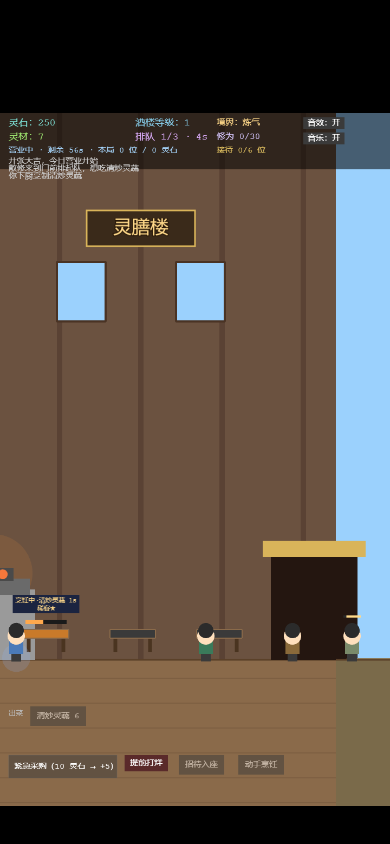
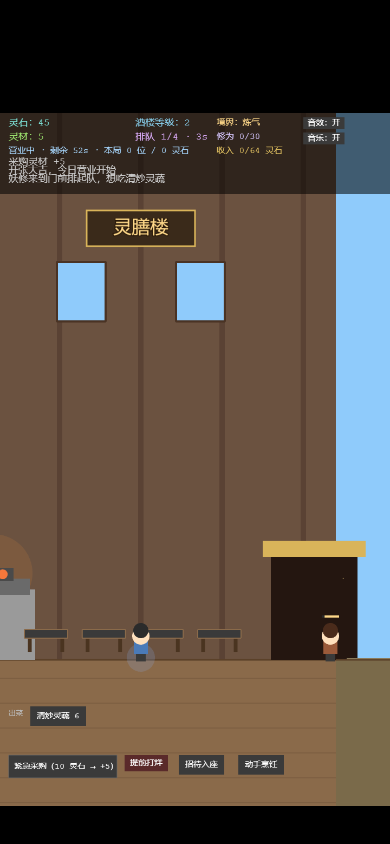
第三轮盲测修复：0 库存禁开张、目标快照、队列取景与 HUD 可读性
- 菜单库存为 0 时红字提示并禁用开张；startSession 兜底，避免进场后卡死
- 每日目标写入存档快照，刷新/升级不再显示两个不同目标；旧档无字段时回退
- 队列基准位 390→350、间距 70→52，两人候客都在 720 画布内
- 目标文本 300px 换行；主 HUD 18px、见闻录 18px、状态栏 150，日志截断到 34 字
- 伙计面板未雇佣行显示日薪，并注明灶上不读口味
- 打烊时入座中食客计入流失（上一批遗漏）
- 复测：0 库存直接开张被挡回、备货后正常；同一存档目标 52 刷新前后一致

测试：46 条单测、tsc、生产构建通过；390×844 headless 复测菜单/队列/HUD 与目标持久化。

diff --git a/src/main.ts b/src/main.ts
@@ -85,7 +85,7 @@ const COLOR_STAFF = 0x4da6ff;
 const SCREEN_W = 720;
 const SCREEN_H = 1280;
 /** 界面分区（见 GLOSSARY）：状态栏 / 主屏 / 副屏。 */
-const STATUS_BAR_H = 104;
+const STATUS_BAR_H = 150;
 const SECONDARY_TOP = 1077;
 const CARD_W = 600;
 
@@ -99,8 +99,8 @@ const FLOOR_Y = 1010;
 const ACTOR_Y = FLOOR_Y - 34;
 const TABLE_X_MIN = -175;
 const TABLE_X_MAX = 145;
-const QUEUE_X = 390;
-const QUEUE_GAP = 70;
+const QUEUE_X = 350;
+const QUEUE_GAP = 52;
 const PLAYER_HOME = { x: 0, y: ACTOR_Y };
 const HAWKER_HOME = { x: 280, y: ACTOR_Y };
 const SERVER_HOME = { x: 120, y: ACTOR_Y };
@@ -183,6 +183,8 @@ interface SaveData {
   selectedDishIds: string[];
   playerGender: "male" | "female";
   meta: MetaStats;
+  /** 当日目标快照：读档后不能因等级变化换目标，否则同一目标会显示两个数。 */
+  dailyGoal?: DailyGoal | null;
 }
 
 /** 按钮内叠两条进度条：上=伙计（蓝），下=玩家（橙）。 */
@@ -567,6 +569,7 @@ class TavernScene extends Phaser.Scene {
       selectedDishIds: [...this.selectedDishIds],
       playerGender: this.playerGender,
       meta: this.meta,
+      dailyGoal: this.dailyGoal,
     };
   }
 
@@ -662,6 +665,20 @@ class TavernScene extends Phaser.Scene {
           (id): id is string => typeof id === "string",
         ),
       );
+      const goal = data.dailyGoal;
+      this.dailyGoal =
+        goal &&
+        (goal.kind === "serve" || goal.kind === "revenue" || goal.kind === "wish") &&
+        typeof goal.label === "string" &&
+        goal.label.length > 0
+          ? {
+              kind: goal.kind,
+              label: goal.label,
+              target: Math.max(1, Math.floor(num(goal.target, 1))),
+              rewardCoins: count(goal.rewardCoins),
+              rewardCultivation: count(goal.rewardCultivation),
+            }
+          : null;
       this.displayedCoins = this.coins;
       const meta = data.meta;
       this.meta = meta
@@ -966,9 +983,10 @@ class TavernScene extends Phaser.Scene {
     this.queueText = this.addUiText(250, 36, "", "18px", "#e0b0ff");
     this.realmText = this.addUiText(400, 10, "", "16px", "#ffd98a");
     this.cultivationText = this.addUiText(400, 36, "", "16px", "#d8c8ff");
-    this.goalText = this.addUiText(400, 62, "", "15px", "#9fdf6a");
-    this.sessionText = this.addUiText(16, 62, "", "15px", "#a8d8ff");
-    this.chronicleText = this.addUiText(16, 82, "", "15px", "#cccccc");
+    this.goalText = this.addUiText(400, 62, "", "16px", "#9fdf6a");
+    this.goalText.setWordWrapWidth(300);
+    this.sessionText = this.addUiText(16, 62, "", "16px", "#a8d8ff");
+    this.chronicleText = this.addUiText(16, 82, "", "18px", "#cccccc");
 
     const audio = loadAudioSettings();
     this.sfxMuted = audio.sfxMuted;
@@ -1468,6 +1486,16 @@ class TavernScene extends Phaser.Scene {
       );
     });
 
+    if (this.inventory <= 0) {
+      layer.add(
+        this.add.text(40, 1000, "库存为 0：先点下面「备货」再开张，否则客人来了没菜可做", {
+          fontSize: "16px",
+          color: "#ff9a8a",
+          wordWrap: { width: 640 },
+        }),
+      );
+    }
+
     const buyPrice = getPurchasePrice(this.staffLevel.buyer, false);
     layer.add(
       this.add
@@ -1486,8 +1514,9 @@ class TavernScene extends Phaser.Scene {
     );
 
     const count = this.getMenuDishes().length;
-    const canStart = count > 0;
-    const start = this.add.text(40, 1120, canStart ? `开张大吉（已选 ${count} 道）` : "至少选一道菜", {
+    const canStart = count > 0 && this.inventory > 0;
+    const startLabel = count === 0 ? "至少选一道菜" : this.inventory <= 0 ? "库存为 0，先备货" : `开张大吉（已选 ${count} 道）`;
+    const start = this.add.text(40, 1120, startLabel, {
       fontSize: "22px",
       color: canStart ? "#ffffff" : "#777777",
       backgroundColor: canStart ? "#3f7a3f" : "#333333",
@@ -1522,7 +1551,7 @@ class TavernScene extends Phaser.Scene {
   }
 
   private startSession() {
-    if (this.getMenuDishes().length === 0 || this.transitioning) return;
+    if (this.getMenuDishes().length === 0 || this.inventory <= 0 || this.transitioning) return;
     this.destroyOverlay();
     this.transitioning = true;
 
@@ -1830,7 +1859,11 @@ class TavernScene extends Phaser.Scene {
     layer.add(this.add.rectangle(0, 0, SCREEN_W, SCREEN_H, 0x000000, 0.92).setOrigin(0, 0).setInteractive());
     layer.add(this.add.text(40, 70, "伙计", { fontSize: "30px", color: "#ffffff" }));
     layer.add(
-      this.add.text(40, 116, this.staffBottleneckHint(), { fontSize: "15px", color: "#e0c060" }),
+      this.add.text(40, 116, `${this.staffBottleneckHint()}（灶上按菜单轮转，不读口味）`, {
+        fontSize: "15px",
+        color: "#e0c060",
+        wordWrap: { width: 640 },
+      }),
     );
     if (this.staffNotice) {
       layer.add(
@@ -1894,7 +1927,12 @@ class TavernScene extends Phaser.Scene {
           });
         layer.add(hireRow);
         layer.add(this.add.text(50, y, `${d.name}（未雇佣）`, { fontSize: "22px", color: "#888888" }));
-        layer.add(this.add.text(50, y + 36, d.desc, { fontSize: "16px", color: "#bbbbbb" }));
+        layer.add(
+          this.add.text(50, y + 36, `${d.desc} · 日薪 ${getStaffWage(role, 1)} 灵石`, {
+            fontSize: "16px",
+            color: "#bbbbbb",
+          }),
+        );
         const btn = this.add
           .text(400, y + 4, `雇 ${d.cost} 灵石`, {
             fontSize: "18px",

diff --git a/docs/playtest.md b/docs/playtest.md
@@ -23,7 +23,7 @@
 
 ## 独立盲测与修复
 
-本轮做了两轮独立盲测（一个是“苛刻的经营管理游戏设计师”，一个是“没看过源码的休闲手机玩家”；两者都被要求实际驱动游戏、不给通用建议）。第一轮修复前分数分别是 **4/10** 和 **3/10**；第二轮（修复后复测）两人都给 **5/10**，主要结论与对应修复：
+本轮做了三轮独立盲测（一个是“苛刻的经营管理游戏设计师”，一个是“没看过源码的休闲手机玩家”；两者都被要求实际驱动游戏、不给通用建议）。第一轮修复前分数分别是 **4/10** 和 **3/10**；第二轮（修复后复测）两人都给 **5/10**；第三轮（当前版本）设计师 **5.5/10**、休闲玩家 **6/10**。主要结论与对应修复：
 
 | 盲测指出的问题 | 修复 |
 |---|---|
@@ -41,6 +41,11 @@
 | 第二次盲测：点「开张大吉」边缘会静默取消菜单 | 开始按钮加大命中区、「先不打烊」移到 420 右侧；实测点开始按钮下缘（330,1164）菜单保持打开，点中央（150,1140）正常开张 |
 | 第二次盲测：只挂一道菜仍是最赚，口味机制被回避 | 想吃改为从**已解锁菜品池**抽取（未上菜单也会点名），单菜大量半价；6 级全自动复测：五道菜 9 位/139 灵石/流失 4，只挂九转灵参 4 位/119/流失 8，总收入不再由单菜领先（盲测修复前为 267 vs 511） |
 | 第二次盲测：门口候客在右缘只露一条，HUD 字小且见闻录成墙 | 营业镜头中心 60→100（首位候客屏幕 x≈650，留 70px 余量）；雅座耐心条；HUD 主数字 17→18、境界/修为 15/16、目标与见闻录 15，见闻录每条截断到 34 字 |
+| 第三次盲测：第 2 天库存 0 仍能点「开张大吉」，进场后无菜可做 | 菜单页库存为 0 时红字提示并禁用开张（按钮变灰、不可点），强制先备货；`startSession` 也加同样兜底。实测 0 库存时按钮无 `input`、直接调用被挡回菜单；点备货 +5 后正常开张 |
+| 第三次盲测：升级后菜单显示旧目标，刷新又变新目标 | 每日目标改为随存档持久化（`dailyGoal` 快照），读档不再按当前等级重算；实测同一存档刷新前后都显示 52 灵石/12 奖励，旧存档无该字段时才回退到按等级计算 |
+| 第三次盲测：雇工只写雇价，日薪到结算才知道 | 未雇佣行补「日薪 X 灵石」，伙计面板顶部补「灶上按菜单轮转，不读口味」 |
+| 第三次盲测：候客仍只在右缘露半身 | 队列基准位 390→350、间距 70→52；单人候客屏幕 x≈610，两人（610/662）都在 720 画布内 |
+| 第三次盲测：顶部目标文字被右侧裁掉 | 目标文本加 300px 自动换行，主数字/见闻录字号再上调（见闻录 18px），状态栏高度 104→150 让三行记录落在深色底上 |
 
 仍保留的盲测意见：手机字号整体偏小（现已把雅座标签 10→12、见闻录 13→15、顶部 HUD 15–18，并给关键反馈加屏幕浮字，但没有做全 UI 字号翻新）；全自动产线仍是“只看不管也能赚灵石”的路线，但**修为只来自亲自下厨**，想飞升必须下场；队列尾部仍要拖动镜头。
 
@@ -54,6 +59,20 @@
 - 修为浮字：强制一桌“想吃清炒灵蔬”的 2 倍客单价稀客、玩家亲自出菜并结算，得 +4 修为（2 基础 +1 口味 +1 稀客），桌面实际出现「+4 修为」浮字，灵石 250→268（6×2×1.5=18）。
 - 单菜经济复测（6 级、跑堂/灶上/迎客全自动、库存 200、60 秒）：五道菜 9 位/139 灵石/命中 2/流失 4；只挂九转灵参 4 位/119 灵石/命中 1/流失 8。单菜在每个客人身上仍更贵（约 29.8 vs 15.4），但慢菜与点名落空让它总收入和接待数都更低，修复前“单菜收入接近 1.9 倍”的结构性问题已不存在。
 - 打烊时仍在入座/待烹饪的食客现在计入流失，不再无声消失。
+
+### 第三次盲测（当前版本）与修复
+
+设计师 5.5/10、休闲玩家 6/10。两份报告都肯定了订单卡片、目标奖励、雇工行与口味反向压力；新暴露的问题与处理：
+
+- 0 库存仍能开张（休闲玩家实际卡死在第 2 天）：菜单页现在红字提示并禁用开张，必须备货；直接调用 `startSession` 也会被挡回。复测：库存 0 时开张按钮没有可点区域，点「备货 +5」后（50→45 灵石、0→5 灵材）才可开张。
+- 升级后目标显示 52、刷新变 64：每日目标现在作为 `dailyGoal` 快照写进存档。复测同一存档刷新前后都显示 52/12；没有该字段的旧存档才回退到按等级重算（64/16）。
+- 门口候客只露半身：队列基准位 390→350、间距 70→52。复测单人屏幕 x≈610（右缘留 110px），两人 610/662 都在画布内；营业镜头中心 100。
+- 顶部目标被裁、日志压在世界画面上：目标文本 300px 自动换行；主 HUD 18px、境界/修为 16px、见闻录 18px 且每条截到 34 字；状态栏 104→150，三行记录落在深色底内。
+- 雇工回本不透明：未雇佣行补日薪；伙计面板写明灶上不读口味。
+
+仍然刻意保留、没有改成“惩罚式”设计的两点：
+- 全自动产线仍可 0 操作净赚（第三轮实测 8 位/57 灵石，扣日薪 18 净 39），但口味只命中 1/3、修为 0；想拿满价或飞升必须自己下场。把自动线改成亏损会逼所有玩家微操，和“可挂机看店”的定位冲突。
+- 首日只有 20 灵石，雇不起最便宜的 30 灵石伙计，默认 8 灵材刚好够目标：第一天是教学局，真正的菜单/雇佣/贷款决策从第 2–3 日展开。这是有意的节奏，不是漏做。
 
 ## 自动化质量门
 
@@ -83,7 +102,7 @@
 ## 已知边界
 
 - 这是**本机自动化试玩 + 两次独立盲测（AI 评审）**，没有真人玩家样本、全球排行榜或第三方媒体评测，因此不能据此证明「全世界最好玩」；它证明的是「有一款完整、可复现、经过盲测并针对主要问题迭代过的游戏」。
-- 盲测分数是修复前的 4/10 与 5/10；第二次盲测后的修复已由本机脚本复测（见上节），第三次独立盲测尚未重跑，不能把复测记录当成新的盲测分数。
+- 盲测分数是各轮修复前的快照（第一轮 4/10、3/10；第二轮 5/10、5/10；第三轮 5.5/10、6/10）。第三轮设计师的测试中途被仓库 HMR 打断并重跑，前后可能不是同一版本；分数只代表盲测当时看到的东西，不是长期结论。
 - 没有云存档/全球排行；跨设备迁移依赖手动 `LS1.` 导出码。
 - 音频只验证了乐句结构、开关与不报错，未做人耳听感评估。
 - 全自动路线仍可能被部分玩家视为“看广告”；但修为只来自亲自下厨，想推进主线必须操作。
